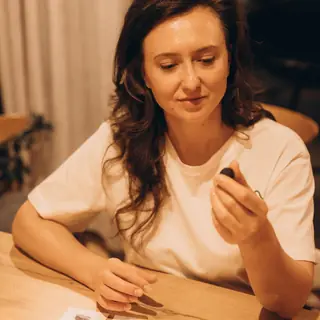
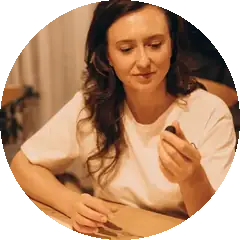
Collage becomes three orbiting rings, every tile a circle
The scatter was random where the reference is ordered: photographs sit on
concentric rings, and the rings turn at different speeds so the field reads as
depth rather than noise. Inner ring completes a turn in 52 seconds, middle in
78, outer in 112. Each tile counter-rotates at its ring's exact period, so the
faces stay upright while travelling.

The five retreat photographs were rectangles among circular avatars; they are
now circles too, so the whole field is one shape.

Rotation is a CSS transform on three containers, which the compositor handles
without touching JavaScript. Phones get no rotation at all — spinning a
full-screen layer is the most expensive thing you can put on a first screen —
and keep only the tiles near the left and right edges, where there is room
beside the text.

diff --git a/src/components/HeroCollage.tsx b/src/components/HeroCollage.tsx
@@ -5,65 +5,59 @@ import { useEffect, useRef, useState } from "react";
 import { motion, useScroll, useTransform, useReducedMotion } from "framer-motion";
 
 /**
- * Колаж зі знімків спільноти навколо першого екрана.
+ * Обличчя спільноти навколо першого екрана.
  *
- * Плитки розкидані кільцем, центр лишається порожнім під заголовок. На скролі
- * вони розлітаються назовні й гаснуть разом із блоком, а мандала за ними
- * продовжує свій рух — вона живе в окремому фіксованому шарі й про колаж
- * нічого не знає.
+ * Плитки стоять на трьох концентричних кільцях. Кільця обертаються з різною
+ * швидкістю — внутрішнє найшвидше, кожне наступне повільніше, — тому виникає
+ * відчуття глибини, а не хаосу. Кожна плитка обертається у зворотний бік з тією
+ * самою швидкістю, щоб обличчя лишалися рівними.
  *
- * Рух тільки transform + opacity. Жодних фільтрів: цей шар лежить на першому
- * екрані, тобто на найдорожчому для телефона місці.
+ * На скролі весь колаж розширюється й гасне, а мандала за ним продовжує рух:
+ * вона живе в окремому фіксованому шарі.
+ *
+ * Обертання — CSS-анімація transform, тобто працює на композиторі без JS.
+ * На телефоні його немає взагалі, і лишаються тільки плитки біля лівого та
+ * правого країв, де є місце поза текстом.
  */
-type Tile = {
-  src: string;
-  /** відсотки від вікна: центр плитки */
-  x: number;
-  y: number;
-  /** сторона в пікселях на десктопі */
-  size: number;
-  rotate: number;
-  /** аватарки круглі, знімки з ретриту — прямокутні */
-  round: boolean;
-  /** плитки, які лишаються на телефоні (там їх менше) */
-  mobile?: boolean;
-};
+type Tile = { src: string; ring: number; angle: number; size: number; mobile?: boolean };
 
 const TILES: Tile[] = [
-  { src: "m15", x: 10.2, y: 6.2, size: 88, rotate: -1.7, round: true, mobile: true },
-  { src: "m28", x: 56.9, y: 7.8, size: 110, rotate: -5.1, round: true },
-  { src: "m10", x: 67.0, y: 9.5, size: 56, rotate: -1.6, round: true },
-  { src: "carpathians", x: 19.9, y: 13.4, size: 110, rotate: -7.3, round: false },
-  { src: "m22", x: 32.5, y: 13.8, size: 110, rotate: 0.9, round: true },
-  { src: "m06", x: 3.5, y: 16.2, size: 110, rotate: -1.1, round: true, mobile: true },
-  { src: "writing", x: 87.3, y: 16.7, size: 98, rotate: -1.9, round: false, mobile: true },
-  { src: "m04", x: 94.6, y: 17.3, size: 80, rotate: -6.5, round: true, mobile: true },
-  { src: "m02", x: 87.0, y: 30.3, size: 110, rotate: -5.9, round: true },
-  { src: "m23", x: 10.9, y: 30.8, size: 56, rotate: -7.4, round: true },
-  { src: "m09", x: 93.1, y: 32.6, size: 88, rotate: 0.7, round: true },
-  { src: "m01", x: 6.6, y: 38.0, size: 110, rotate: 8.3, round: true },
-  { src: "m17", x: 14.1, y: 42.4, size: 98, rotate: -2.8, round: true },
-  { src: "m19", x: 87.1, y: 53.6, size: 88, rotate: 5.9, round: true },
-  { src: "m11", x: 79.3, y: 55.9, size: 56, rotate: -8.9, round: true },
-  { src: "m20", x: 9.0, y: 67.2, size: 80, rotate: -8.3, round: true },
-  { src: "hands", x: 91.6, y: 68.3, size: 80, rotate: 7.9, round: false },
-  { src: "crystal", x: 93.7, y: 77.1, size: 80, rotate: -0.7, round: false, mobile: true },
-  { src: "m25", x: 86.1, y: 82.1, size: 56, rotate: 1.6, round: true },
-  { src: "m30", x: 5.0, y: 87.1, size: 72, rotate: -4.7, round: true, mobile: true },
-  { src: "m05", x: 92.7, y: 87.1, size: 98, rotate: -3.0, round: true, mobile: true },
-  { src: "m29", x: 34.8, y: 88.4, size: 64, rotate: -7.9, round: true },
-  { src: "m21", x: 27.0, y: 93.9, size: 64, rotate: -3.3, round: true },
-  { src: "m31", x: 73.8, y: 94.5, size: 56, rotate: -5.4, round: true, mobile: true },
-  { src: "m12", x: 85.6, y: 95.2, size: 98, rotate: 5.6, round: true, mobile: true },
-  { src: "cards", x: 8.8, y: 95.7, size: 80, rotate: -0.5, round: false, mobile: true },
+  { src: "m15", ring: 0, angle: 37.0, size: 88, mobile: true },
+  { src: "m28", ring: 0, angle: 98.3, size: 100 },
+  { src: "m10", ring: 0, angle: 154.7, size: 92, mobile: true },
+  { src: "carpathians", ring: 0, angle: 212.0, size: 104, mobile: true },
+  { src: "m22", ring: 0, angle: 276.6, size: 100 },
+  { src: "m06", ring: 0, angle: 335.2, size: 88, mobile: true },
+  { src: "writing", ring: 1, angle: 6.7, size: 80, mobile: true },
+  { src: "m04", ring: 1, angle: 54.6, size: 84 },
+  { src: "m02", ring: 1, angle: 85.4, size: 84 },
+  { src: "m23", ring: 1, angle: 124.6, size: 80 },
+  { src: "m09", ring: 1, angle: 163.9, size: 88, mobile: true },
+  { src: "m01", ring: 1, angle: 206.4, size: 76, mobile: true },
+  { src: "m17", ring: 1, angle: 253.3, size: 84 },
+  { src: "m19", ring: 1, angle: 290.4, size: 72 },
+  { src: "m11", ring: 1, angle: 332.7, size: 72, mobile: true },
+  { src: "m20", ring: 2, angle: 34.8, size: 64, mobile: true },
+  { src: "hands", ring: 2, angle: 65.9, size: 64 },
+  { src: "crystal", ring: 2, angle: 94.7, size: 68 },
+  { src: "m25", ring: 2, angle: 129.4, size: 56 },
+  { src: "m30", ring: 2, angle: 157.6, size: 72, mobile: true },
+  { src: "m05", ring: 2, angle: 196.1, size: 68, mobile: true },
+  { src: "m29", ring: 2, angle: 226.4, size: 68 },
+  { src: "m21", ring: 2, angle: 260.4, size: 56 },
+  { src: "m31", ring: 2, angle: 286.1, size: 72 },
+  { src: "m12", ring: 2, angle: 320.8, size: 56, mobile: true },
+  { src: "cards", ring: 2, angle: 351.9, size: 68, mobile: true },
 ];
+
+/** Період обертання кільця. Внутрішнє найшвидше. */
+const SPIN = ["52s", "78s", "112s"];
 
 export default function HeroCollage() {
   const ref = useRef<HTMLDivElement>(null);
   const reduced = useReducedMotion();
-  // Ховати зайві плитки через CSS не досить: браузер усе одно їх завантажує.
-  // Тому на сервері рендеримо лише мобільний набір, а решту додаємо вже в
-  // браузері, коли знаємо ширину. Телефон качає 10 картинок замість 26.
+  // Приховані через CSS картинки браузер усе одно завантажує, тому на сервері
+  // рендеримо лише мобільний набір, а решту додаємо, коли знаємо ширину.
   const [wide, setWide] = useState(false);
   useEffect(() => {
     const mq = window.matchMedia("(min-width: 768px)");
@@ -72,69 +66,56 @@ export default function HeroCollage() {
     mq.addEventListener("change", apply);
     return () => mq.removeEventListener("change", apply);
   }, []);
-  // Прогрес рахуємо від верху сторінки до кінця першого екрана.
+
   const { scrollYProgress } = useScroll({ target: ref, offset: ["start start", "end start"] });
+  const scale = useTransform(scrollYProgress, [0, 1], [1, 1.55]);
+  const opacity = useTransform(scrollYProgress, [0, 0.55, 0.92], [1, 0.5, 0]);
 
   return (
     <div ref={ref} aria-hidden className="pointer-events-none absolute inset-0 overflow-hidden">
-      {TILES.filter((t) => wide || t.mobile).map((t, i) => (
-        <CollageTile key={t.src} tile={t} index={i} progress={scrollYProgress} reduced={!!reduced} />
-      ))}
-    </div>
-  );
-}
-
-function CollageTile({
-  tile,
-  index,
-  progress,
-  reduced,
-}: {
-  tile: Tile;
-  index: number;
-  progress: ReturnType<typeof useScroll>["scrollYProgress"];
-  reduced: boolean;
-}) {
-  // Напрямок розльоту — від центру екрана до плитки.
-  const dx = tile.x - 50;
-  const dy = tile.y - 50;
-  const len = Math.hypot(dx, dy) || 1;
-  const fly = 78; // наскільки далеко відлітає, у відсотках власного розміру
-
-  const x = useTransform(progress, [0, 1], ["0%", `${(dx / len) * fly}%`]);
-  const y = useTransform(progress, [0, 1], ["0%", `${(dy / len) * fly - 26}%`]);
-  const opacity = useTransform(progress, [0, 0.55, 0.9], [1, 0.55, 0]);
-  const scale = useTransform(progress, [0, 1], [1, 1.18]);
-
-  return (
-    <motion.div
-      style={{
-        left: `${tile.x}%`,
-        top: `${tile.y}%`,
-        // Розмір заданий у пікселях для десктопа й зменшується коефіцієнтом
-        // --tile-k на вузьких екранах: інлайновий style не вміє медіазапитів.
-        ["--tile" as string]: `${tile.size}px`,
-        width: "calc(var(--tile) * var(--tile-k, 1))",
-        ...(reduced ? {} : { x, y, opacity, scale }),
-      } as React.CSSProperties}
-      className="absolute -translate-x-1/2 -translate-y-1/2"
-    >
-      <div
-        className={`tile-float overflow-hidden ${tile.round ? "rounded-full" : "rounded-[12px]"}`}
-        style={{
-          transform: `rotate(${tile.rotate}deg)`,
-          animationDelay: `${index * 0.9}s`,
-        }}
+      <motion.div
+        className="absolute inset-0"
+        style={reduced ? undefined : { scale, opacity }}
       >
-        <Image
-          src={`/photos/community/${tile.src}.webp`}
-          alt=""
-          width={tile.round ? 240 : 320}
-          height={tile.round ? 240 : 320}
-          sizes="120px"
-          className="h-auto w-full opacity-[0.78]"
-        />
-      </div>
-    </motion.div>
+        {[0, 1, 2].map((ring) => (
+          <div
+            key={ring}
+            className="collage-ring absolute left-1/2 top-1/2"
+            style={{
+              width: `calc(var(--ring-${ring}) * 2)`,
+              height: `calc(var(--ring-${ring}) * 2)`,
+              marginLeft: `calc(var(--ring-${ring}) * -1)`,
+              marginTop: `calc(var(--ring-${ring}) * -1)`,
+              animationDuration: SPIN[ring],
+            }}
+          >
+            {TILES.filter((t) => t.ring === ring && (wide || t.mobile)).map((t) => (
+              <div
+                key={t.src}
+                className="absolute"
+                style={{
+                  left: `${50 + 50 * Math.cos((t.angle * Math.PI) / 180)}%`,
+                  top: `${50 + 50 * Math.sin((t.angle * Math.PI) / 180)}%`,
+                  width: `calc(${t.size}px * var(--tile-k, 1))`,
+                  transform: "translate(-50%, -50%)",
+                }}
+              >
+                {/* зворотне обертання з тим самим періодом — обличчя не крутиться */}
+                <div className="collage-counter" style={{ animationDuration: SPIN[ring] }}>
+                  <Image
+                    src={`/photos/community/${t.src}.webp`}
+                    alt=""
+                    width={240}
+                    height={240}
+                    sizes="120px"
+                    className="h-auto w-full rounded-full opacity-[0.82]"
+                  />
+                </div>
+              </div>
+            ))}
+          </div>
+        ))}
+      </motion.div>
+    </div>
   );
 }

diff --git a/src/app/globals.css b/src/app/globals.css
@@ -385,16 +385,28 @@ body {
 .rise-d2 { animation-delay: 0.26s; }
 .rise-d3 { animation-delay: 0.42s; }
 
-/* Плитки колажу на першому екрані: ледь помітне «дихання», щоб кадр був живий.
-   Тільки transform, тому композитор тягне це без перемальовування. */
-.tile-float { animation: tileFloat 9s ease-in-out infinite; }
-@keyframes tileFloat {
-  0%, 100% { translate: 0 0; }
-  50%      { translate: 0 -10px; }
+/* ═══════════ Колаж облич на першому екрані ═══════════ */
+/* Радіуси кілець. На телефоні вони великі навмисно: видимими лишаються тільки
+   плитки біля лівого та правого країв, де є місце поза текстом. */
+:root {
+  --ring-0: 54vw;
+  --ring-1: 68vw;
+  --ring-2: 82vw;
+  --tile-k: 0.72;
 }
-@media (max-width: 820px) {
-  .tile-float { animation: none; }
+@media (min-width: 768px) {
+  :root { --ring-0: 33vw; --ring-1: 42vw; --ring-2: 51vw; --tile-k: 1; }
 }
-/* На вузькому екрані плитки менші, щоб не наповзали на заголовок. */
-@media (max-width: 640px) { :root { --tile-k: 0.72; } }
-@media (min-width: 641px) and (max-width: 1024px) { :root { --tile-k: 0.86; } }
+
+.collage-ring { animation: collageSpin linear infinite; }
+.collage-counter { animation: collageSpin linear infinite reverse; }
+@keyframes collageSpin { to { transform: rotate(360deg); } }
+
+/* На телефоні кільця не крутяться: обертання повноекранного шару — найдорожче,
+   що можна покласти на перший екран. Плитки просто стоять по краях. */
+@media (max-width: 767px) {
+  .collage-ring, .collage-counter { animation: none; }
+}
+@media (prefers-reduced-motion: reduce) {
+  .collage-ring, .collage-counter { animation: none; }
+}
